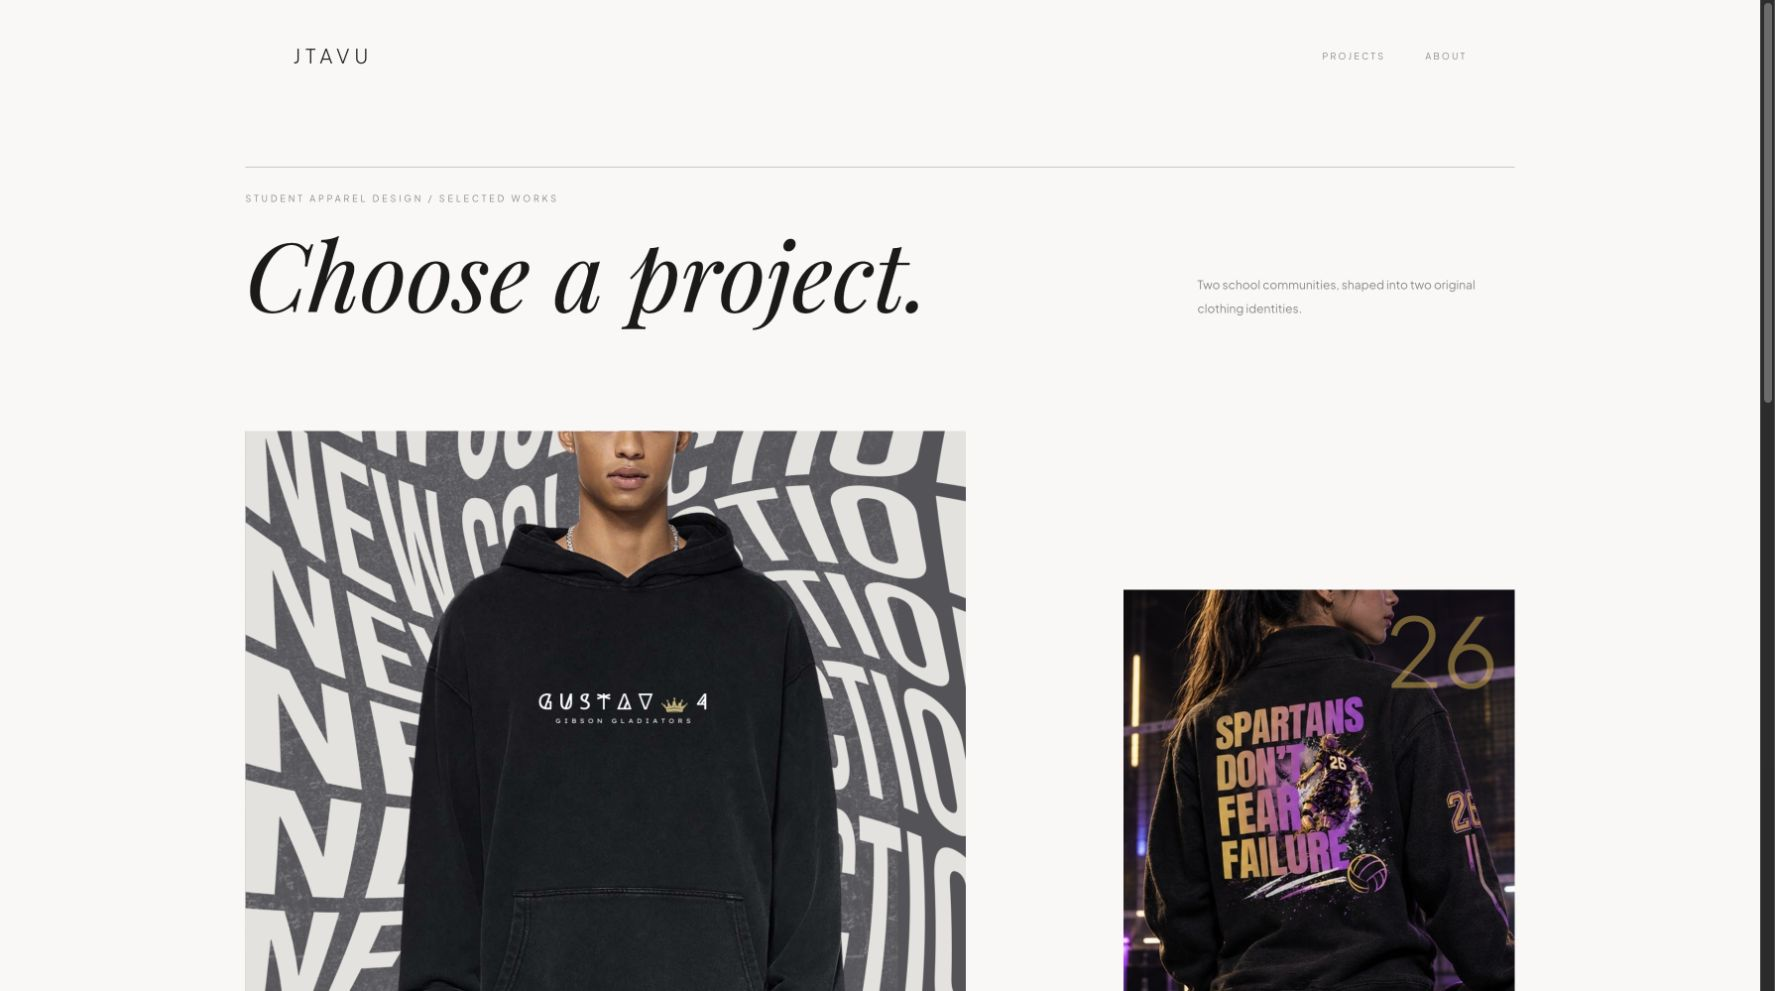
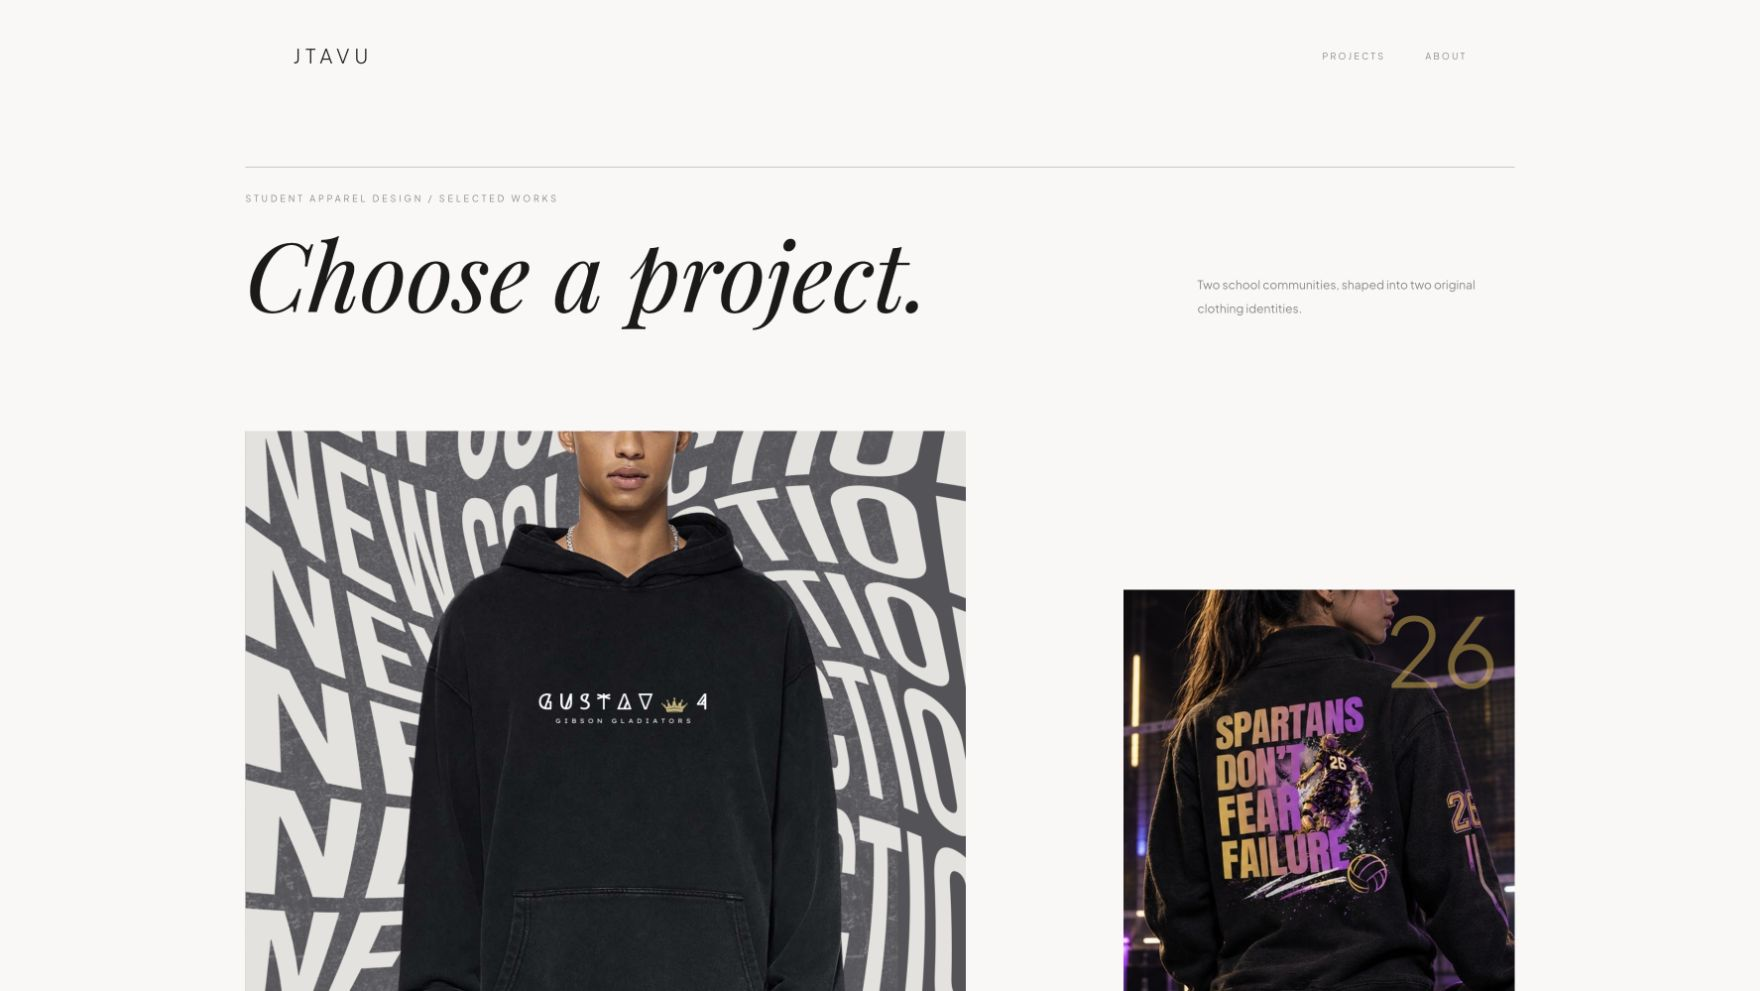
Polish the portfolio: arrival motion, framed screenshots, readable footer
Sections ease in as they reach the viewport (off under reduced motion),
website screenshots get a light browser frame, project rows respond to
hover, the footer is legible, and browser scrollbars captured in five
project screenshots are trimmed off. The corner dock caption is hidden.

Claude-Session: https://claude.ai/code/session_01YV5PuyEDQnynU7zUCF5Zte

diff --git a/src/styles.css b/src/styles.css
@@ -130,3 +130,29 @@ section[id],article[id],#contact{scroll-margin-top:90px}.skip-work{position:fixe
 @media(max-width:900px){.index-project{grid-template-columns:1fr 130px}.index-preview{width:130px}.index-project>p{grid-column:1}.index-project>.text-action{grid-column:2;grid-row:2}}
 @media(max-width:700px){.site-header{height:100px;display:grid;grid-template-columns:1fr auto;gap:0;padding:8px 6%}.site-header .brand{font-size:12px}.site-header nav{grid-row:2;grid-column:1/-1;justify-content:space-between;gap:10px;font-size:11px}.site-header .snoopy-toggle{grid-column:2;grid-row:1;min-height:36px;padding:7px 11px;font-size:10px}.site-header nav a{padding:10px 0}.site-header .nav-beyond{display:none}section[id],article[id],#contact{scroll-margin-top:125px}.index-project{grid-template-columns:1fr 100px;gap:12px}.index-preview{width:100px}.index-project h3{font-size:26px}.index-project>p{grid-column:1/-1}.index-project>.text-action{grid-column:1/-1;grid-row:auto;justify-self:start}.archive-heading{display:block}.archive-items{grid-template-columns:1fr;gap:5px}.story-role .project-status{margin:8px 0 0;display:table}.project-detail-story h3{font-size:23px}}
 .contact-section a{overflow-wrap:anywhere}.contact-section>a:first-of-type{display:inline-block;max-width:100%}.index-preview:focus-visible,.project-title-button:focus-visible{outline-offset:4px}
+
+/* Polish pass, 10 November: arrival motion, framed screenshots, readable footer. */
+.reveal{opacity:0;transform:translateY(28px);transition:opacity .7s ease,transform .8s cubic-bezier(.2,.7,.2,1)}
+.reveal.is-revealed{opacity:1;transform:none}
+.index-project.reveal.is-revealed{transition-delay:.06s}
+@media(prefers-reduced-motion:reduce){.reveal{opacity:1;transform:none;transition:none}}
+
+/* Website screenshots read as websites: a quiet browser frame. */
+.story-image{position:relative;border-radius:12px;border:1px solid #e9e4df;background:#fff;padding-top:30px;box-shadow:0 1px 2px #1a12080a,0 18px 50px -18px #1a120830;transition:box-shadow .4s,transform .4s}
+.story-image::before{content:"";position:absolute;left:0;right:0;top:0;height:30px;border-bottom:1px solid #eee8e3;background:#faf8f5 radial-gradient(circle at 18px 15px,#e7b4aa 4px,transparent 4.5px) no-repeat,#faf8f5}
+.story-image::after{content:"";position:absolute;top:11px;left:30px;width:8px;height:8px;border-radius:50%;background:#e6dcd2;box-shadow:13px 0 0 #e6dcd2}
+.story-image img{border-radius:0 0 11px 11px}
+.story-image:hover{box-shadow:0 1px 2px #1a12080a,0 26px 60px -18px #1a120840;transform:translateY(-2px)}
+.story-image:hover img{transform:scale(1.015)}
+.index-preview{border-radius:8px;border:1px solid #ebe6e1;background:#faf8f5}
+.index-preview img{transition:transform .5s}
+.index-project{position:relative;transition:background .25s}
+.index-project::before{content:"";position:absolute;inset:0 -18px;border-radius:10px;background:#b1261e06;opacity:0;transition:opacity .25s;pointer-events:none}
+.index-project:hover::before{opacity:1}
+.index-project:hover .index-preview img{transform:scale(1.05)}
+.index-project h3 .project-title-button{transition:color .2s}.index-project:hover h3 .project-title-button{color:var(--accent)}
+
+/* Footer that can actually be read. */
+footer{font-size:11px;letter-spacing:1.5px;padding:28px 4%;color:var(--accent)}footer span{letter-spacing:.3px;color:#6f6660}
+@media(max-width:700px){.story-image{padding-top:24px;border-radius:10px}.story-image::before{height:24px;background-position:14px 12px}.story-image::after{top:8px;left:24px;width:7px;height:7px;box-shadow:11px 0 0 #e6dcd2}.index-project::before{inset:0 -10px}footer{font-size:10px}}
+@media(prefers-reduced-motion:reduce){.story-image,.story-image:hover,.index-preview img{transition:none;transform:none}}

diff --git a/src/ScrollPortfolio.jsx b/src/ScrollPortfolio.jsx
@@ -1,8 +1,18 @@
+import {useEffect} from 'react';
 import {ExperienceArchive} from './ExperienceArchive';
 import {projectList} from './projects';
 export function ScrollPortfolio({filter,setFilter,openProject}){
  const visible=projectList.filter(p=>filter==='All'||p.tags.includes(filter));
  const featured=visible.filter(p=>p.featured),others=visible.filter(p=>!p.featured);
+ // Sections ease in as they arrive. Content stays visible without JavaScript,
+ // and reduced motion turns the movement off in CSS.
+ useEffect(()=>{
+  const items=[...document.querySelectorAll('.scroll-portfolio .work-intro,.scroll-portfolio .project-story,.scroll-portfolio .index-project,.scroll-portfolio .making-section,.scroll-portfolio .beyond-section,.scroll-portfolio .about-section,.scroll-portfolio .contact-section')];
+  if(!('IntersectionObserver' in window))return;
+  const observer=new IntersectionObserver(entries=>{for(const e of entries)if(e.isIntersecting){e.target.classList.add('is-revealed');observer.unobserve(e.target);}},{rootMargin:'0px 0px -8% 0px',threshold:.08});
+  for(const el of items){if(el.classList.contains('is-revealed'))continue;const b=el.getBoundingClientRect();if(b.top<innerHeight&&b.bottom>0){el.classList.add('is-revealed');continue;}el.classList.add('reveal');observer.observe(el);}
+  return()=>observer.disconnect();
+ },[filter]);
  return <div className="scroll-portfolio">
  <section id="work" className="work-intro"><p className="section-kicker">01 / SELECTED WORK</p><div className="work-heading"><h2>A few things<br/><em>I’ve made.</em></h2><p>Websites, design, and ideas<br/>I wanted to see in the world.</p></div><div className="work-filter-row"><div className="work-filters" aria-label="Filter selected work">{['All','Websites','Design','Research'].map(f=><button key={f} aria-pressed={filter===f} onClick={()=>setFilter(f)}>{f}</button>)}</div><p aria-live="polite">{visible.length} projects</p></div></section>
  <div className="featured-stories">{featured.map((p,i)=><section key={p.id} data-project-id={p.id} data-snoopy-actions="inspect climb" id={`project-${p.id}`} className={`project-story ${p.id==='apparel'?'apparel-story':''}`} aria-labelledby={`title-${p.id}`}><div className="story-heading"><p className="section-kicker">{p.tags.join(' / ').toUpperCase()}</p><h2 id={`title-${p.id}`}>{p.title}</h2><p className="story-role">{p.role} <span className="project-status">{p.status}</span></p></div><button className="story-image" onClick={()=>openProject(p.id)} aria-label={`Read the ${p.title} story`}><img src={p.image} alt={`${p.title} website and design preview`} loading="lazy"/></button><div className="story-copy"><p className="story-statement">{p.description}</p><div><p>{p.detail}</p><button className="text-action" onClick={()=>openProject(p.id)}>Project details</button><a className="text-action" href={p.url} target="_blank" rel="noreferrer">Visit the project</a></div></div></section>)}</div>

diff --git a/AGENTS.md b/AGENTS.md
@@ -94,3 +94,7 @@ Build app UI in `src/`. Keep `.openai/hosting.json`, `worker/index.js`, `scripts
 - Physics: dragging and releasing throws him with the release speed (gravity, wall bounces, header bonk, floor bounce) until a surface catches him; a gentle drop falls straight down. Strolls sometimes head for a ledge with a lower surface beyond it, peek, and step off.
 - Scrolling, at the user's request: he always animates while the page moves. On his surface he crouches with arms out and leans like riding it; when scrolling down lifts his surface to the top he steps off and falls, caught by surfaces rising into him; scrolling up hops him to a higher surface. In the corner during a scroll he trots in place. After a long scroll he looks around with a !.
 - User does not want a white box around him in the corner. The dock has no card or caption, only a soft shadow at his feet.
+
+## Site polish, 10 November
+- User wants the overall site to look better. Done without new content: sections ease in on arrival (reduced motion off), website screenshots sit in a quiet browser frame, project rows tint on hover with a small preview zoom, footer enlarged for legibility, and baked-in browser scrollbars trimmed from the Sunset, Apparel, Maryvale, Science Fair and OncoSync screenshots.
+- Open content questions for the user: "Room for what's next" repeats OncoSync; "Beyond work" promises film, photography and volleyball with no images; Berkeley roles are absent.
